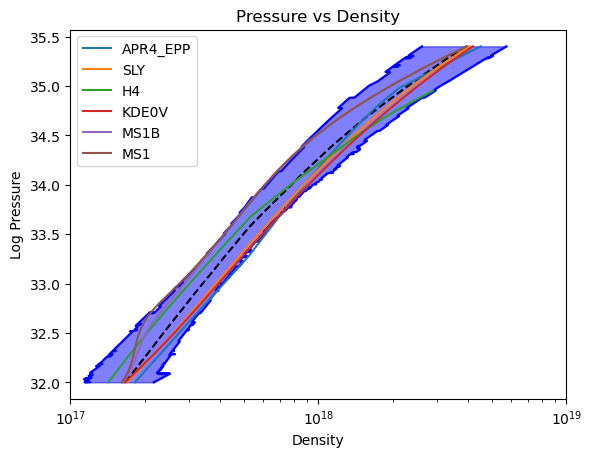
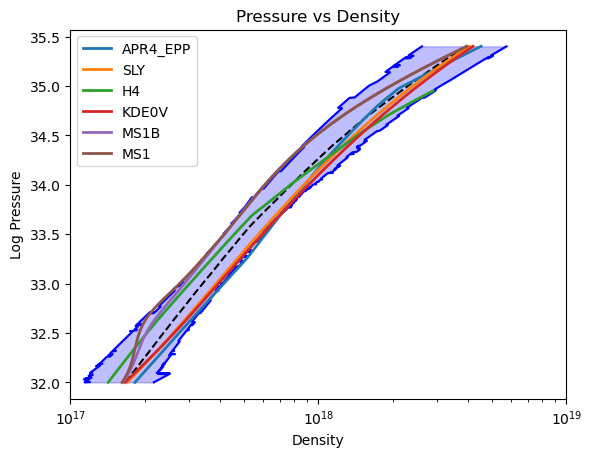
Adjusting plots

Changed region(s): [[0.152, 0.0919, 0.8514, 0.8578]]

diff --git a/emcee_post.py b/emcee_post.py
@@ -270,7 +270,7 @@ def p_vs_rho_plot_multiple(filename, label, N):
     size = 1
     pl.plot(lower_bound, logp_grid, color="blue")
     pl.plot(upper_bound, logp_grid, color="blue")
-    ax.fill_betweenx(logp_grid, lower_bound, x2=upper_bound, color="blue", alpha=0.5)
+    ax.fill_betweenx(logp_grid, lower_bound, x2=upper_bound, color="blue", alpha=0.25)
     pl.plot(median, logp_grid, "k--")
 
     min_log_pressure = 32.0
@@ -293,7 +293,7 @@ def p_vs_rho_plot_multiple(filename, label, N):
             except RuntimeError:
                 continue
         
-        pl.plot(density_grid, pressure_grid, label=eos_name)
+        pl.plot(density_grid, pressure_grid, label=eos_name, linewidth=2.0)
 
     pl.xlim([10**17, 10**19])
     pl.xlabel("Density")
